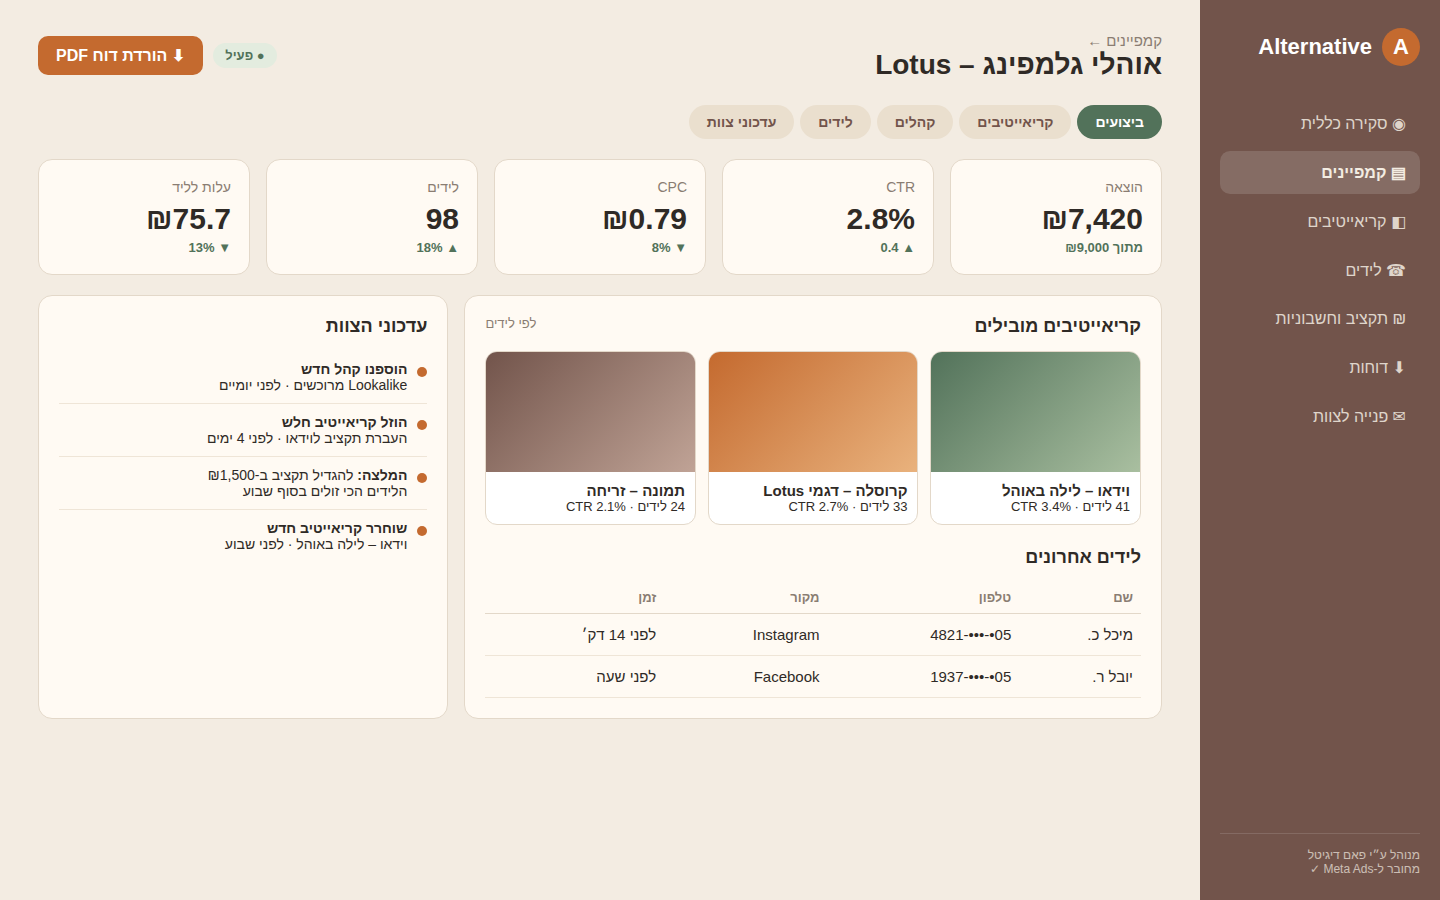
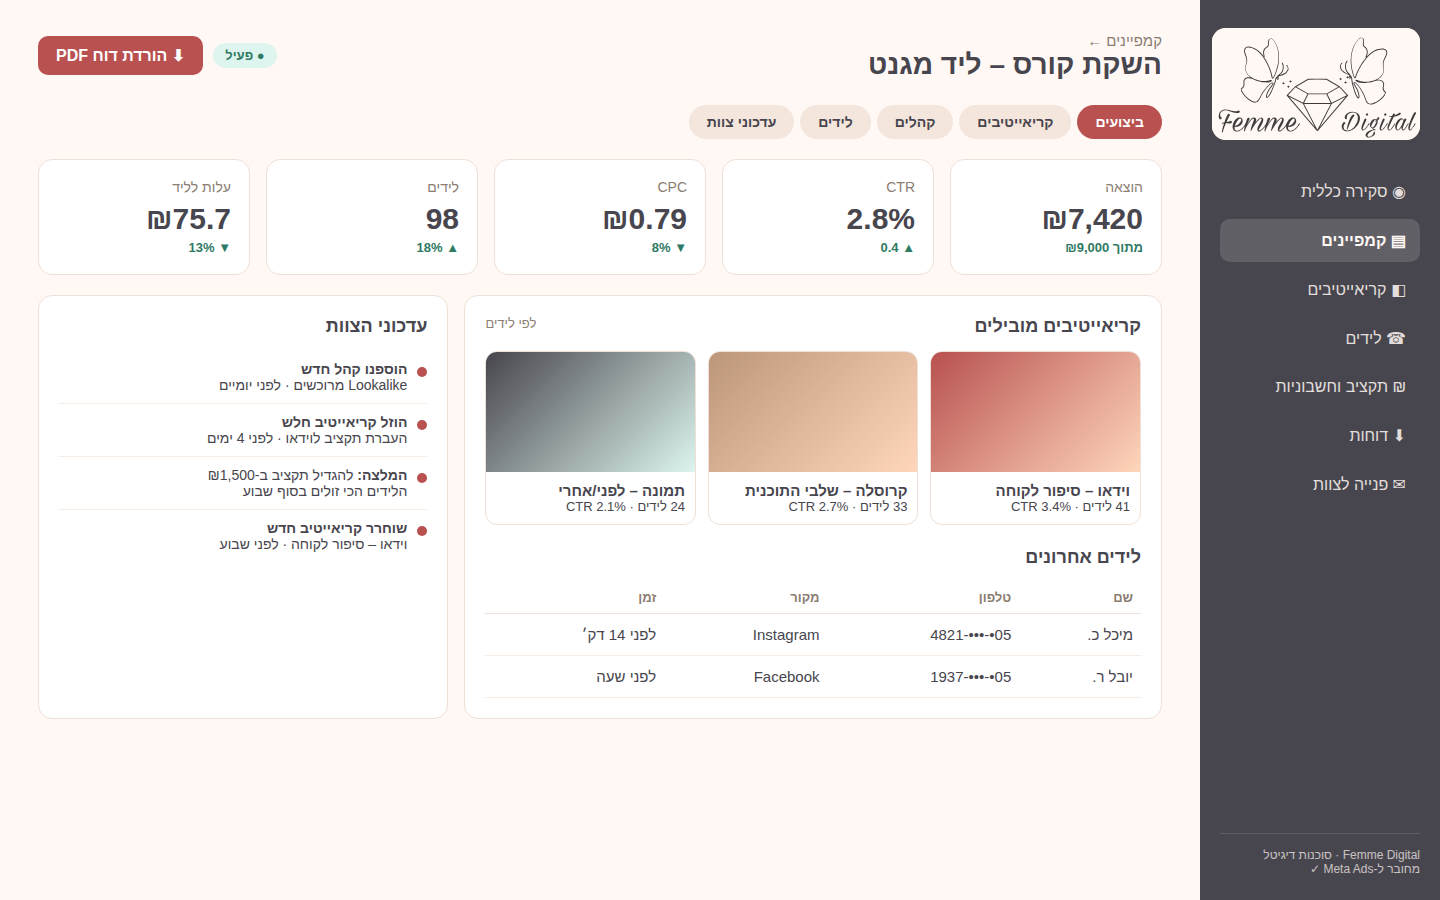
Rebrand portal mockups to Femme Digital brand kit
Claude-Session: https://claude.ai/code/session_01SHgaQ2tZapowtJVSgU9cgx

diff --git a/mockups/portal.html b/mockups/portal.html
@@ -1,49 +1,49 @@
-<!doctype html><html lang="he" dir="rtl"><head><meta charset="utf-8"><title>Client Portal Mockup</title>
+<!doctype html><html lang="he" dir="rtl"><head><meta charset="utf-8"><title>Femme Digital Client Portal</title>
 <style>
-:root{--g:#52725a;--b:#72544b;--o:#c46a2f;--bg:#f3ece2;--card:#fffaf3;--ink:#2f2a26;--mut:#8a7d72;--line:#e3d8c9}
+:root{--g:#b85150;--b:#47454d;--o:#b85150;--bg:#fff8f4;--card:#ffffff;--ink:#47454d;--mut:#8a7d72;--line:#eee0d6}
 *{box-sizing:border-box;margin:0}body{font-family:Assistant,"Segoe UI",Arial,sans-serif;background:#d9d2c6;color:var(--ink)}
 .screen{width:1440px;height:900px;background:var(--bg);position:relative;overflow:hidden;margin-bottom:40px}
-.logo{display:flex;align-items:center;gap:10px;font-weight:800;color:var(--g);font-size:22px}
-.logo i{width:38px;height:38px;border-radius:50%;background:var(--g);display:grid;place-items:center;color:#fff;font-style:normal}
+.logo{width:208px;height:112px;overflow:hidden;position:relative;background:#fff8f4;border-radius:14px}.logo img{position:absolute;left:-548px;top:-102px;width:1080px;max-width:none}
+
 .btn{background:var(--o);color:#fff;border:0;border-radius:10px;padding:13px 22px;font-weight:700;font-size:16px;font-family:inherit}
 /* login */
 .login{display:grid;grid-template-columns:1fr 1fr;height:100%}
-.login .l{background:linear-gradient(160deg,var(--g),#3c5643);color:#fff;padding:70px;display:flex;flex-direction:column;justify-content:space-between}
+.login .l{background:linear-gradient(160deg,#ddf5ee,#ffd6bc);color:#47454d;padding:70px;display:flex;flex-direction:column;justify-content:space-between}
 .login .l h1{font-size:46px;line-height:1.2;margin-bottom:18px}.login .l p{opacity:.85;font-size:19px;max-width:440px}
-.login .l .logo{color:#fff}.login .l .logo i{background:var(--o)}
-.pills{display:flex;gap:10px;flex-wrap:wrap}.pills span{background:#ffffff22;padding:8px 16px;border-radius:99px;font-size:15px}
-.login .r{display:grid;place-items:center}.box{width:420px;background:var(--card);padding:44px;border-radius:20px;box-shadow:0 20px 50px #72544b22}
+
+.pills{display:flex;gap:10px;flex-wrap:wrap}.pills span{background:#ffffffaa;padding:8px 16px;border-radius:99px;font-size:15px}
+.login .r{display:grid;place-items:center}.box{width:420px;background:var(--card);padding:44px;border-radius:20px;box-shadow:0 20px 50px #47454d22}
 .box h2{font-size:28px;margin-bottom:6px}.box small{color:var(--mut)}
 .f{margin-top:20px}.f label{display:block;font-size:14px;color:var(--b);font-weight:700;margin-bottom:6px}
 .f div{border:1.5px solid var(--line);border-radius:10px;padding:13px 14px;background:#fff;color:var(--mut)}
 .box .btn{width:100%;margin-top:26px}.pw{margin-top:22px;text-align:center;color:var(--mut);font-size:13px}
 /* app */
 .app{display:grid;grid-template-columns:240px 1fr;height:100%}
-.side{background:var(--b);color:#f3ece2;padding:28px 20px}.side .logo{color:#fff;margin-bottom:36px}.side .logo i{background:var(--o)}
-.side a{display:flex;gap:12px;padding:12px 14px;border-radius:10px;margin-bottom:6px;font-size:16px;opacity:.85}.side a.on{background:#ffffff24;opacity:1;font-weight:700}
+.side{background:var(--b);color:#fff8f4;padding:28px 20px}.side .logo{margin-bottom:30px}
+.side a{display:flex;gap:12px;padding:12px 14px;border-radius:10px;margin-bottom:6px;font-size:16px;opacity:.85}.side a.on{background:#ffffff26;opacity:1;font-weight:700}
 .side .pam{position:absolute;bottom:24px;font-size:12px;opacity:.7;width:200px;border-top:1px solid #ffffff30;padding-top:14px}
 .main{padding:30px 38px;overflow:hidden}
 .top{display:flex;justify-content:space-between;align-items:center;margin-bottom:24px}.top h1{font-size:28px}.top .sub{color:var(--mut);font-size:15px;margin-top:2px}
 .user{display:flex;gap:10px;align-items:center;font-size:14px}.av{width:40px;height:40px;border-radius:50%;background:var(--o);color:#fff;display:grid;place-items:center;font-weight:800}
-.badge{display:inline-flex;gap:6px;align-items:center;background:#e3ecdf;color:var(--g);padding:5px 12px;border-radius:99px;font-size:13px;font-weight:700}
+.badge{display:inline-flex;gap:6px;align-items:center;background:#ddf5ee;color:#2f7a64;padding:5px 12px;border-radius:99px;font-size:13px;font-weight:700}
 .badge.m{background:#e7efff;color:#1a5bd8}
 .kpis{display:grid;grid-template-columns:repeat(5,1fr);gap:16px;margin-bottom:20px}
-.k{background:var(--card);border:1px solid var(--line);border-radius:14px;padding:18px}.k span{color:var(--mut);font-size:14px}.k b{display:block;font-size:30px;margin:6px 0 2px}.k em{font-style:normal;font-size:13px;color:var(--g);font-weight:700}.k em.d{color:#b3402a}
+.k{background:var(--card);border:1px solid var(--line);border-radius:14px;padding:18px}.k span{color:var(--mut);font-size:14px}.k b{display:block;font-size:30px;margin:6px 0 2px}.k em{font-style:normal;font-size:13px;color:#2f7a64;font-weight:700}.k em.d{color:#b3402a}
 .row{display:grid;grid-template-columns:1.7fr 1fr;gap:16px;margin-bottom:16px}
 .card{background:var(--card);border:1px solid var(--line);border-radius:14px;padding:20px}.card h3{font-size:18px;margin-bottom:14px;display:flex;justify-content:space-between}.card h3 small{font-weight:400;color:var(--mut);font-size:13px}
-table{width:100%;border-collapse:collapse;font-size:15px}th{color:var(--mut);font-weight:600;text-align:right;padding:8px;border-bottom:1px solid var(--line);font-size:13px}td{padding:12px 8px;border-bottom:1px solid #efe5d7}
-.bar{height:8px;background:#eadfce;border-radius:9px;overflow:hidden}.bar i{display:block;height:100%;background:var(--g)}
+table{width:100%;border-collapse:collapse;font-size:15px}th{color:var(--mut);font-weight:600;text-align:right;padding:8px;border-bottom:1px solid var(--line);font-size:13px}td{padding:12px 8px;border-bottom:1px solid #f6ece4}
+.bar{height:8px;background:#f4e6dc;border-radius:9px;overflow:hidden}.bar i{display:block;height:100%;background:var(--g)}
 .creat{display:grid;grid-template-columns:repeat(3,1fr);gap:12px}.cr{border-radius:12px;overflow:hidden;border:1px solid var(--line);background:#fff}.cr .im{height:120px}.cr div+div{padding:10px;font-size:13px}.cr b{display:block;font-size:15px}
-.tl{font-size:14px}.tl p{padding:10px 0;border-bottom:1px solid #efe5d7;display:flex;gap:10px}.tl p:last-child{border:0}.dot{width:10px;height:10px;border-radius:50%;background:var(--o);margin-top:6px;flex:none}
-.tabs{display:flex;gap:6px;margin-bottom:20px}.tabs span{padding:9px 18px;border-radius:99px;background:#eadfce;color:var(--b);font-size:14px;font-weight:700}.tabs .on{background:var(--g);color:#fff}
+.tl{font-size:14px}.tl p{padding:10px 0;border-bottom:1px solid #f6ece4;display:flex;gap:10px}.tl p:last-child{border:0}.dot{width:10px;height:10px;border-radius:50%;background:var(--o);margin-top:6px;flex:none}
+.tabs{display:flex;gap:6px;margin-bottom:20px}.tabs span{padding:9px 18px;border-radius:99px;background:#f4e6dc;color:var(--b);font-size:14px;font-weight:700}.tabs .on{background:var(--g);color:#fff}
 </style></head><body>
 
 <!-- 1 LOGIN -->
 <div class="screen" id="s1"><div class="login">
-<div class="l"><div class="logo"><i>A</i>Alternative Dream</div>
+<div class="l"><div class="logo"><img src="assets/brand-sheet.png"></div>
 <div><h1>עוקבים אחרי הקמפיין שלכם<br>בזמן אמת</h1><p>תוצאות, הוצאות ויצירתיים של הקמפיינים שלכם במטא — במקום אחד, מעודכן אוטומטית.</p></div>
-<div><div class="pills"><span>● Facebook</span><span>● Instagram</span><span>● עדכון כל שעה</span></div><p style="font-size:13px;margin-top:20px;opacity:.7">מופעל על ידי פאם דיגיטל</p></div></div>
-<div class="r"><div class="box"><h2>כניסת לקוחות</h2><small>הכניסו את הפרטים שקיבלתם מפאם דיגיטל</small>
+<div><div class="pills"><span>● Facebook</span><span>● Instagram</span><span>● עדכון כל שעה</span></div></div></div>
+<div class="r"><div class="box"><h2>כניסת לקוחות</h2><small>הכניסו את הפרטים שקיבלתם מ-Femme Digital</small>
 <div class="f"><label>אימייל</label><div>name@company.co.il</div></div>
 <div class="f"><label>סיסמה</label><div>••••••••••</div></div>
 <button class="btn">כניסה לדשבורד</button><div class="pw">שכחתי סיסמה · כניסה עם קוד ב-WhatsApp</div></div></div>
@@ -51,11 +51,11 @@ table{width:100%;border-collapse:collapse;font-size:15px}th{color:var(--mut);fon
 
 <!-- 2 DASHBOARD -->
 <div class="screen" id="s2"><div class="app">
-<div class="side"><div class="logo"><i>A</i>Alternative</div>
+<div class="side"><div class="logo"><img src="assets/brand-sheet.png"></div>
 <a class="on">◉ סקירה כללית</a><a>▤ קמפיינים</a><a>◧ קריאייטיבים</a><a>☎ לידים</a><a>₪ תקציב וחשבוניות</a><a>⬇ דוחות</a><a>✉ פנייה לצוות</a>
-<div class="pam">מנוהל ע״י פאם דיגיטל<br>מחובר ל-Meta Ads ✓</div></div>
+<div class="pam">Femme Digital · סוכנות דיגיטל<br>מחובר ל-Meta Ads ✓</div></div>
 <div class="main">
-<div class="top"><div><h1>שלום דנה 👋</h1><div class="sub">סקירת ביצועים · 1–30 בספטמבר 2026</div></div><div class="user"><span class="badge m">● מחובר ל-Meta</span><span class="badge">עודכן לפני 12 דק׳</span><div class="av">ד</div></div></div>
+<div class="top"><div><h1>שלום דנה 🦋</h1><div class="sub">סקירת ביצועים · 1–30 בספטמבר 2026</div></div><div class="user"><span class="badge m">● מחובר ל-Meta</span><span class="badge">עודכן לפני 12 דק׳</span><div class="av">ד</div></div></div>
 <div class="kpis">
 <div class="k"><span>הוצאה</span><b>₪14,820</b><em>78% מהתקציב</em></div>
 <div class="k"><span>חשיפות</span><b>412K</b><em>▲ 14%</em></div>
@@ -63,39 +63,39 @@ table{width:100%;border-collapse:collapse;font-size:15px}th{color:var(--mut);fon
 <div class="k"><span>לידים</span><b>186</b><em>▲ 22%</em></div>
 <div class="k"><span>עלות לליד</span><b>₪79.7</b><em>▼ 11% (טוב)</em></div></div>
 <div class="row"><div class="card"><h3>לידים והוצאה לאורך זמן <small>30 ימים</small></h3>
-<svg viewBox="0 0 700 230" width="100%"><g stroke="#e3d8c9"><path d="M0 40H700M0 90H700M0 140H700M0 190H700"/></g>
-<path d="M0 170 C60 160 90 130 140 140 S230 90 290 100 S380 60 440 70 S560 40 700 25 L700 190 L0 190Z" fill="#52725a22"/>
-<path d="M0 170 C60 160 90 130 140 140 S230 90 290 100 S380 60 440 70 S560 40 700 25" fill="none" stroke="#52725a" stroke-width="3.5"/>
-<path d="M0 150 C80 150 120 160 180 130 S300 130 360 115 S500 120 600 100 S660 90 700 85" fill="none" stroke="#c46a2f" stroke-width="3" stroke-dasharray="7 6"/>
+<svg viewBox="0 0 700 230" width="100%"><g stroke="#eee0d6"><path d="M0 40H700M0 90H700M0 140H700M0 190H700"/></g>
+<path d="M0 170 C60 160 90 130 140 140 S230 90 290 100 S380 60 440 70 S560 40 700 25 L700 190 L0 190Z" fill="#b8515022"/>
+<path d="M0 170 C60 160 90 130 140 140 S230 90 290 100 S380 60 440 70 S560 40 700 25" fill="none" stroke="#b85150" stroke-width="3.5"/>
+<path d="M0 150 C80 150 120 160 180 130 S300 130 360 115 S500 120 600 100 S660 90 700 85" fill="none" stroke="#bc967a" stroke-width="3" stroke-dasharray="7 6"/>
 <g font-size="13" fill="#8a7d72"><text x="0" y="215">1.9</text><text x="340" y="215">15.9</text><text x="670" y="215">30.9</text></g></svg>
-<div style="display:flex;gap:20px;font-size:13px;color:var(--mut)"><span style="color:var(--g)">━ לידים</span><span style="color:var(--o)">╍ הוצאה</span></div></div>
+<div style="display:flex;gap:20px;font-size:13px;color:var(--mut)"><span style="color:var(--g)">━ לידים</span><span style="color:#bc967a">╍ הוצאה</span></div></div>
 <div class="card"><h3>פילוח לפי פלטפורמה</h3>
-<div style="display:flex;align-items:center;gap:22px"><svg width="150" viewBox="0 0 42 42"><circle cx="21" cy="21" r="15.9" fill="none" stroke="#eadfce" stroke-width="7"/><circle cx="21" cy="21" r="15.9" fill="none" stroke="#52725a" stroke-width="7" stroke-dasharray="58 42" transform="rotate(-90 21 21)"/><circle cx="21" cy="21" r="15.9" fill="none" stroke="#c46a2f" stroke-width="7" stroke-dasharray="32 68" stroke-dashoffset="-58" transform="rotate(-90 21 21)"/><circle cx="21" cy="21" r="15.9" fill="none" stroke="#72544b" stroke-width="7" stroke-dasharray="10 90" stroke-dashoffset="-90" transform="rotate(-90 21 21)"/></svg>
-<div style="font-size:15px;line-height:2.1"><span style="color:#52725a">●</span> Instagram 58%<br><span style="color:#c46a2f">●</span> Facebook 32%<br><span style="color:#72544b">●</span> Reels 10%</div></div></div></div>
+<div style="display:flex;align-items:center;gap:22px"><svg width="150" viewBox="0 0 42 42"><circle cx="21" cy="21" r="15.9" fill="none" stroke="#f4e6dc" stroke-width="7"/><circle cx="21" cy="21" r="15.9" fill="none" stroke="#b85150" stroke-width="7" stroke-dasharray="58 42" transform="rotate(-90 21 21)"/><circle cx="21" cy="21" r="15.9" fill="none" stroke="#bc967a" stroke-width="7" stroke-dasharray="32 68" stroke-dashoffset="-58" transform="rotate(-90 21 21)"/><circle cx="21" cy="21" r="15.9" fill="none" stroke="#ffd6bc" stroke-width="7" stroke-dasharray="10 90" stroke-dashoffset="-90" transform="rotate(-90 21 21)"/></svg>
+<div style="font-size:15px;line-height:2.1"><span style="color:#b85150">●</span> Instagram 58%<br><span style="color:#bc967a">●</span> Facebook 32%<br><span style="color:#ffd6bc">●</span> Reels 10%</div></div></div></div>
 <div class="card"><h3>קמפיינים פעילים <small>הצג הכל ←</small></h3><table><tr><th>קמפיין</th><th>סטטוס</th><th>הוצאה</th><th>לידים</th><th>עלות לליד</th><th>ניצול תקציב</th></tr>
-<tr><td><b>אוהלי גלמפינג – Lotus</b></td><td><span class="badge">פעיל</span></td><td>₪7,420</td><td>98</td><td>₪75.7</td><td style="width:150px"><div class="bar"><i style="width:82%"></i></div></td></tr>
-<tr><td><b>אוהלי Bell – קמפיין קיץ</b></td><td><span class="badge">פעיל</span></td><td>₪5,100</td><td>64</td><td>₪79.7</td><td><div class="bar"><i style="width:71%"></i></div></td></tr>
+<tr><td><b>השקת קורס – ליד מגנט</b></td><td><span class="badge">פעיל</span></td><td>₪7,420</td><td>98</td><td>₪75.7</td><td style="width:150px"><div class="bar"><i style="width:82%"></i></div></td></tr>
+<tr><td><b>וובינר חי – הרשמה</b></td><td><span class="badge">פעיל</span></td><td>₪5,100</td><td>64</td><td>₪79.7</td><td><div class="bar"><i style="width:71%"></i></div></td></tr>
 <tr><td><b>רימרקטינג – גולשי אתר</b></td><td><span class="badge">פעיל</span></td><td>₪2,300</td><td>24</td><td>₪95.8</td><td><div class="bar"><i style="width:64%"></i></div></td></tr></table></div>
 </div></div></div>
 
 <!-- 3 CAMPAIGN DETAIL -->
 <div class="screen" id="s3"><div class="app">
-<div class="side"><div class="logo"><i>A</i>Alternative</div>
+<div class="side"><div class="logo"><img src="assets/brand-sheet.png"></div>
 <a>◉ סקירה כללית</a><a class="on">▤ קמפיינים</a><a>◧ קריאייטיבים</a><a>☎ לידים</a><a>₪ תקציב וחשבוניות</a><a>⬇ דוחות</a><a>✉ פנייה לצוות</a>
-<div class="pam">מנוהל ע״י פאם דיגיטל<br>מחובר ל-Meta Ads ✓</div></div>
+<div class="pam">Femme Digital · סוכנות דיגיטל<br>מחובר ל-Meta Ads ✓</div></div>
 <div class="main">
-<div class="top"><div><div class="sub">קמפיינים ←</div><h1>אוהלי גלמפינג – Lotus</h1></div><div class="user"><span class="badge">● פעיל</span><button class="btn" style="padding:10px 18px">⬇ הורדת דוח PDF</button></div></div>
+<div class="top"><div><div class="sub">קמפיינים ←</div><h1>השקת קורס – ליד מגנט</h1></div><div class="user"><span class="badge">● פעיל</span><button class="btn" style="padding:10px 18px">⬇ הורדת דוח PDF</button></div></div>
 <div class="tabs"><span class="on">ביצועים</span><span>קריאייטיבים</span><span>קהלים</span><span>לידים</span><span>עדכוני צוות</span></div>
 <div class="kpis"><div class="k"><span>הוצאה</span><b>₪7,420</b><em>מתוך ₪9,000</em></div><div class="k"><span>CTR</span><b>2.8%</b><em>▲ 0.4</em></div><div class="k"><span>CPC</span><b>₪0.79</b><em>▼ 8%</em></div><div class="k"><span>לידים</span><b>98</b><em>▲ 18%</em></div><div class="k"><span>עלות לליד</span><b>₪75.7</b><em>▼ 13%</em></div></div>
 <div class="row"><div class="card"><h3>קריאייטיבים מובילים <small>לפי לידים</small></h3><div class="creat">
-<div class="cr"><div class="im" style="background:linear-gradient(135deg,#52725a,#a9bfa0)"></div><div><b>וידאו – לילה באוהל</b>41 לידים · CTR 3.4%</div></div>
-<div class="cr"><div class="im" style="background:linear-gradient(135deg,#c46a2f,#e9b27d)"></div><div><b>קרוסלה – דגמי Lotus</b>33 לידים · CTR 2.7%</div></div>
-<div class="cr"><div class="im" style="background:linear-gradient(135deg,#72544b,#c0a396)"></div><div><b>תמונה – זריחה</b>24 לידים · CTR 2.1%</div></div></div>
+<div class="cr"><div class="im" style="background:linear-gradient(135deg,#b85150,#ffd6bc)"></div><div><b>וידאו – סיפור לקוחה</b>41 לידים · CTR 3.4%</div></div>
+<div class="cr"><div class="im" style="background:linear-gradient(135deg,#bc967a,#ffd6bc)"></div><div><b>קרוסלה – שלבי התוכנית</b>33 לידים · CTR 2.7%</div></div>
+<div class="cr"><div class="im" style="background:linear-gradient(135deg,#47454d,#ddf5ee)"></div><div><b>תמונה – לפני/אחרי</b>24 לידים · CTR 2.1%</div></div></div>
 <h3 style="margin-top:22px">לידים אחרונים</h3><table><tr><th>שם</th><th>טלפון</th><th>מקור</th><th>זמן</th></tr><tr><td>מיכל כ.</td><td>05•-•••-4821</td><td>Instagram</td><td>לפני 14 דק׳</td></tr><tr><td>יובל ר.</td><td>05•-•••-1937</td><td>Facebook</td><td>לפני שעה</td></tr></table></div>
 <div class="card tl"><h3>עדכוני הצוות</h3>
 <p><span class="dot"></span><span><b>הוספנו קהל חדש</b><br>Lookalike מרוכשים · לפני יומיים</span></p>
 <p><span class="dot"></span><span><b>הוזל קריאייטיב חלש</b><br>העברת תקציב לוידאו · לפני 4 ימים</span></p>
 <p><span class="dot"></span><span><b>המלצה:</b> להגדיל תקציב ב-₪1,500<br>הלידים הכי זולים בסוף שבוע</span></p>
-<p><span class="dot"></span><span><b>שוחרר קריאייטיב חדש</b><br>וידאו – לילה באוהל · לפני שבוע</span></p></div></div>
+<p><span class="dot"></span><span><b>שוחרר קריאייטיב חדש</b><br>וידאו – סיפור לקוחה · לפני שבוע</span></p></div></div>
 </div></div></div>
 </body></html>
